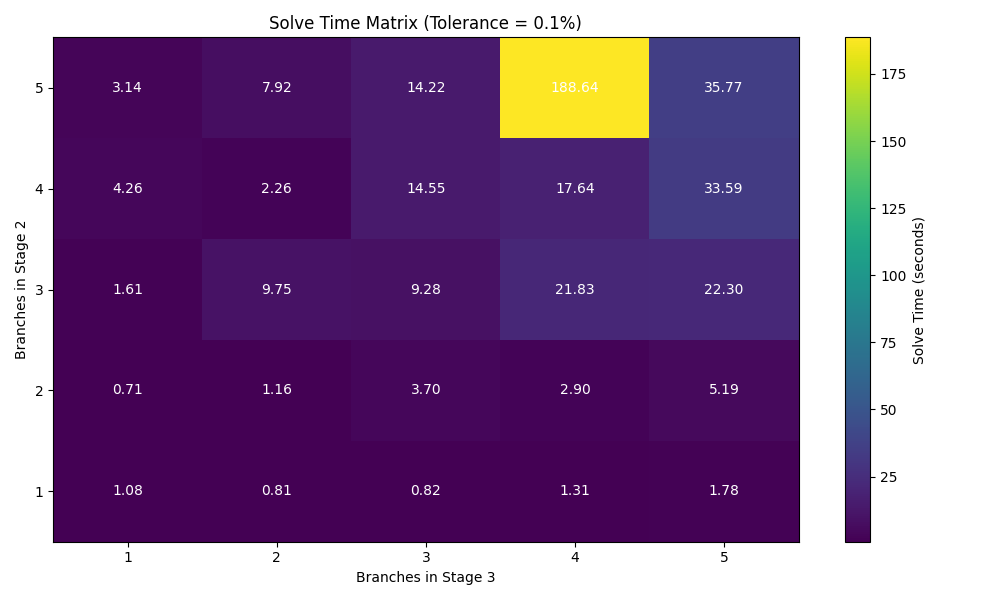
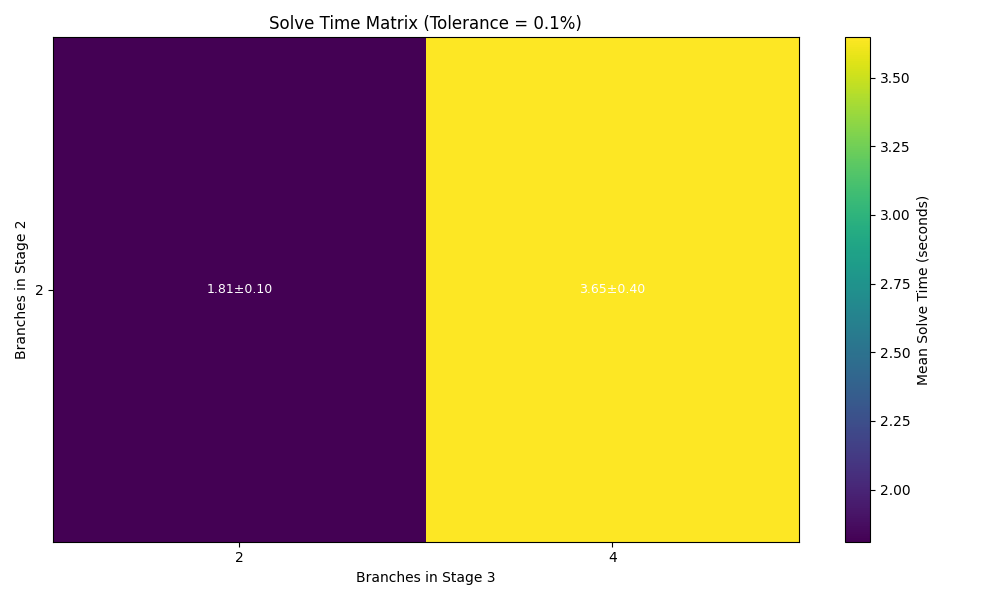
speed experiment real run

diff --git a/study_case_model/Experiments/python_files/examine_speed.py b/study_case_model/Experiments/python_files/examine_speed.py
@@ -70,39 +70,75 @@ def time_model(model, precision = PRECISION):
     return end_time - start_time
 
 
-def branch_solve_time_matrix(network, max_2, max_3):
-    G = network.copy()
 
+def branch_solve_time_matrix(network, max_2, max_3, runs=4):
+    G = network.copy()
     solve_times = {}
 
-    for m_2 in range(1, max_2+1, 2):
-        for m_3 in range(1, max_3+1, 2):
-            scenarios = create_scenarios(NUMBER_OF_STAGES, {1: 1, 2: m_2, 3: m_3}, G)
-            model = create_model(G, scenarios, number_of_density_bounds=1)
-            solve_times[(m_2, m_3)] = time_model(model)
-            print(f"Branches Stage 2: {m_2}, Branches Stage 3: {m_3}, Solve Time: {solve_times[(m_2, m_3)]} seconds")
+    for m_2 in range(2, max_2+1, 2):
+        for m_3 in range(2, max_3+1, 2):
+
+            times = []
+
+            for r in range(runs):
+                scenarios = create_scenarios(NUMBER_OF_STAGES, {1: 1, 2: m_2, 3: m_3}, G)
+                model = create_model(G, scenarios, number_of_density_bounds=1)
+                t = time_model(model)
+                times.append(t)
+
+            times = np.array(times)
+            mean = np.mean(times)
+            std = np.std(times, ddof=1)  # sample std
+            stderr = std / np.sqrt(runs)
+
+            solve_times[(m_2, m_3)] = (mean, stderr)
+
+            print(
+                f"Branches Stage 2: {m_2}, Stage 3: {m_3} | "
+                f"Mean: {mean:.2f}s ± {stderr:.2f}"
+            )
+
     return solve_times
     
-def plot_solve_time_matrix(solve_times, folder =FOLDER):
+def plot_solve_time_matrix(solve_times, folder=FOLDER):
     os.makedirs(folder, exist_ok=True)
+
     m_2_values = sorted(set(m_2 for m_2, m_3 in solve_times.keys()))
     m_3_values = sorted(set(m_3 for m_2, m_3 in solve_times.keys()))
 
-    Z = np.array([[solve_times.get((m_2, m_3), 0) for m_3 in m_3_values] for m_2 in m_2_values])
+    # Extract mean values for heatmap
+    Z = np.array([
+        [solve_times.get((m_2, m_3), (0, 0))[0] for m_3 in m_3_values]
+        for m_2 in m_2_values
+    ])
+
     plt.figure(figsize=(10, 6))
     plt.imshow(Z, origin='lower', aspect='auto', cmap='viridis')
-    plt.colorbar(label='Solve Time (seconds)')
+    plt.colorbar(label='Mean Solve Time (seconds)')
+
+    # Annotate with mean ± stderr
     for i, m_2 in enumerate(m_2_values):
         for j, m_3 in enumerate(m_3_values):
-            plt.text(j, i, f'{Z[i, j]:.2f}', ha='center', va='center', color='white', fontsize=10)
+            mean, stderr = solve_times.get((m_2, m_3), (0, 0))
+            plt.text(
+                j, i,
+                f'{mean:.2f}±{stderr:.2f}',
+                ha='center', va='center',
+                color='white',
+                fontsize=9
+            )
+
     plt.xticks(ticks=range(len(m_3_values)), labels=m_3_values)
     plt.yticks(ticks=range(len(m_2_values)), labels=m_2_values)
+
     plt.xlabel('Branches in Stage 3')
     plt.ylabel('Branches in Stage 2')
-    plt.title(f'Solve Time Matrix (Tolerance = {PRECISION *100}%)')
+    plt.title(f'Solve Time Matrix (Tolerance = {PRECISION * 100}%)')
+
     plt.tight_layout()
-    plt.savefig(folder +'solve_time_matrix.png')
+    plt.savefig(folder + 'solve_time_matrix.png')
     plt.close()
+
 
 def allowed_deviation_solve_times(network, scenarios, deviation_values):
     G = network.copy()
@@ -301,21 +337,31 @@ def plot_splits_objective(results, precision=0.01, runs =5):
 def save_dict_to_csv(data_dict, folder, filename):
     Path(folder).mkdir(parents=True, exist_ok=True)
 
+    # Convert dict to DataFrame
     df = pd.DataFrame.from_dict(data_dict, orient="index")
 
-    # If values are scalar → single column
-    if df.shape[1] == 1:
+    # Case 1: tuple values (mean, stderr)
+    if df.shape[1] == 2:
+        df.columns = ["mean", "stderr"]
+
+    # Case 2: scalar values
+    elif df.shape[1] == 1:
         df.columns = ["value"]
 
+    # Optional: split tuple index (m_2, m_3) into columns
+    if isinstance(df.index[0], tuple):
+        df.index = pd.MultiIndex.from_tuples(df.index, names=["m_2", "m_3"])
+        df = df.reset_index()
+
     file_path = Path(folder) / f"{filename}.csv"
-    df.to_csv(file_path)
+    df.to_csv(file_path, index=False)
 
     print(f"Saved to {file_path}")
 
 if __name__ == "__main__":
     G = build_base_graph()
 
-    solve_times = branch_solve_time_matrix(G, max_2=8, max_3=8)
+    solve_times = branch_solve_time_matrix(G, max_2=8, max_3=8, runs=4)
     save_dict_to_csv(solve_times, FOLDER, "branch_solve_times")
     plot_solve_time_matrix(solve_times)
 
@@ -330,15 +376,15 @@ if __name__ == "__main__":
     plot_cutting_plane_solve_times(cutting_plane_times)
 
     density_bounds = [1, 2, 3, 4]
-    solve_times = density_solve_times(G, scenarios, density_bounds, runs = 10)
+    solve_times = density_solve_times(G, scenarios, density_bounds, runs = 4)
     save_dict_to_csv(solve_times, FOLDER, "density_solve_times")
-    plot_density_solve_times(solve_times, runs=10)
+    plot_density_solve_times(solve_times, runs=4)
 
-    solve_times = splits_per_arc_experiment(G, splits_values=[6,11,16,21,26], runs= 10)
+    solve_times = splits_per_arc_experiment(G, splits_values=[6,11,16,21,26], runs= 4)
 
-    plot_splits_solve_times(solve_times, runs= 10)
+    plot_splits_solve_times(solve_times, runs= 4)
     save_dict_to_csv(solve_times, FOLDER, "splits_solve_times")
-    plot_splits_objective(solve_times, runs= 10)
+    plot_splits_objective(solve_times, runs= 4)
 
 
 